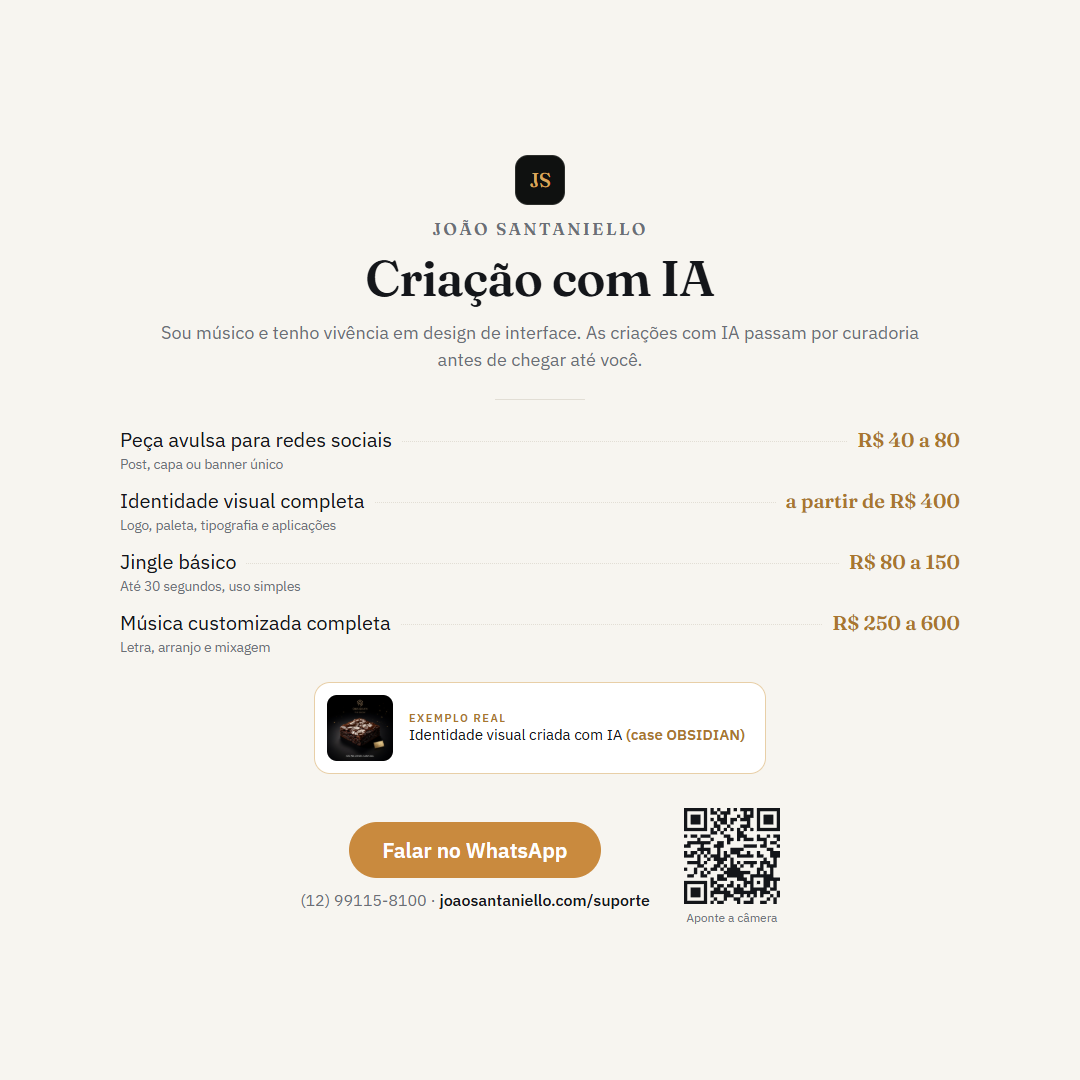
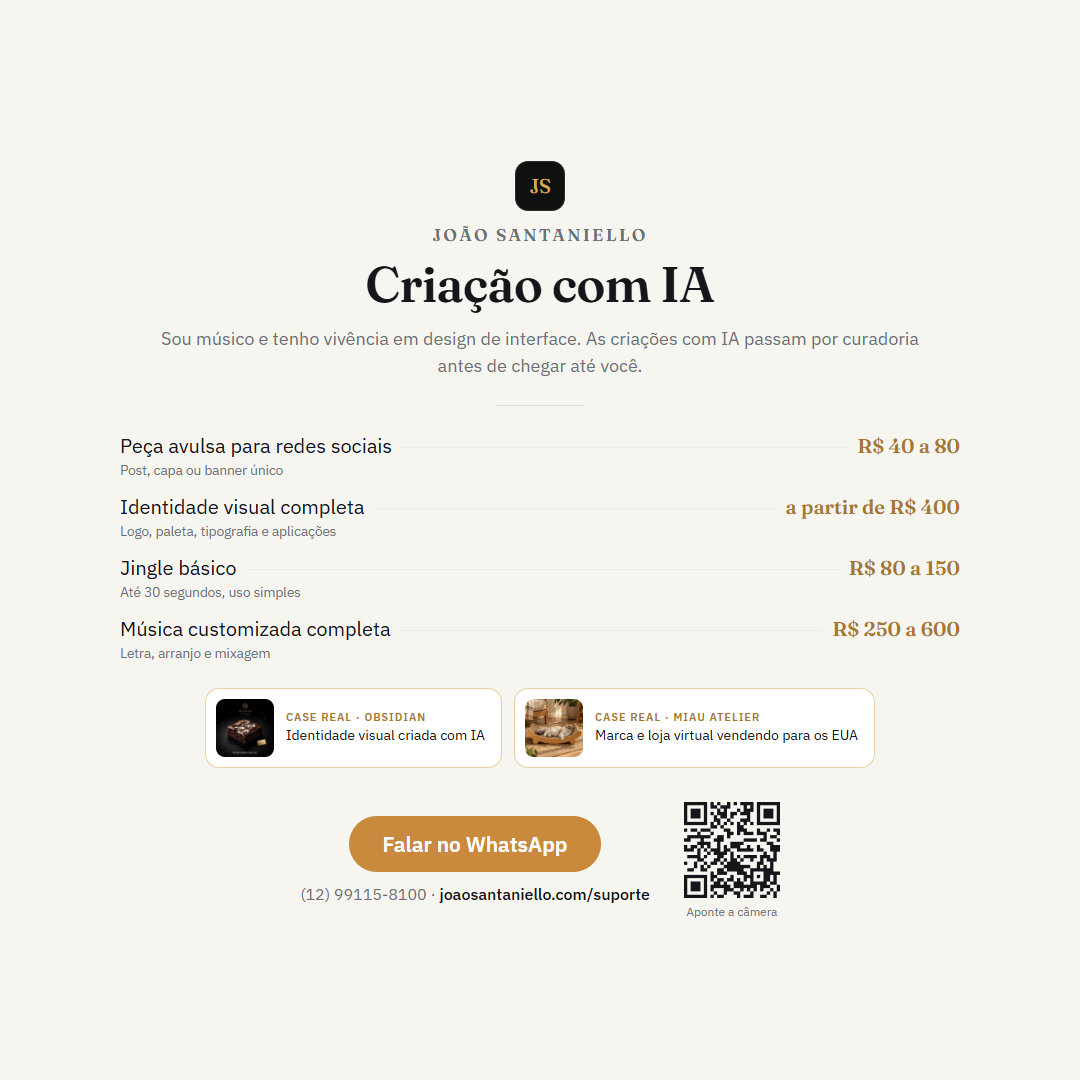
feat(flyers): show the Miau Atelier case next to OBSIDIAN

diff --git a/scripts/flyers/build.py b/scripts/flyers/build.py
@@ -14,6 +14,7 @@ from __future__ import annotations
 
 import html
 import io
+import time
 from pathlib import Path
 
 import segno
@@ -23,6 +24,7 @@ from playwright.sync_api import sync_playwright
 ROOT = Path(__file__).resolve().parents[2]
 OUT = ROOT / "public" / "assets" / "flyers"
 OBSIDIAN = ROOT / "public" / "assets" / "obsidian-branding.jpg"
+MIAU = ROOT / "public" / "assets" / "miau-atelier" / "editorial-hero-living-room-scratcher.webp"
 CHROME = r"C:\Program Files\Google\Chrome\Application\chrome.exe"
 
 NAME = "João Santaniello"
@@ -154,10 +156,16 @@ def groups(gs) -> str:
 
 
 def example(dark: bool) -> str:
-    return (
-        f'<div class="example{" dark" if dark else ""}"><img src="{OBSIDIAN.as_uri()}" alt="">'
-        f'<div><div class="exk">Exemplo real</div><div>Identidade visual criada com IA <b>(case OBSIDIAN)</b></div></div></div>'
+    """Two real cases side by side: OBSIDIAN (identity) and Miau Atelier (brand and store)."""
+    cases = [
+        (OBSIDIAN, "OBSIDIAN", "Identidade visual criada com IA"),
+        (MIAU, "Miau Atelier", "Marca e loja virtual vendendo para os EUA"),
+    ]
+    cards = "".join(
+        f'<div class="excard"><img src="{img.as_uri()}" alt=""><div><div class="exk">Case real · {e(name)}</div><div>{e(text)}</div></div></div>'
+        for img, name, text in cases
     )
+    return f'<div class="example{" dark" if dark else ""}">{cards}</div>'
 
 
 def cta(url: str, dark: bool, big: bool = False) -> str:
@@ -201,11 +209,11 @@ body { width:var(--w); height:var(--h); background:var(--paper); color:var(--ink
 .gtitle { font-size:14px; font-weight:600; letter-spacing:0.16em; text-transform:uppercase; color:var(--golddeep); margin-bottom:10px; }
 .chips { display:flex; flex-wrap:wrap; justify-content:center; gap:10px; margin-top:24px; }
 .chips span { border:1px solid var(--line); border-radius:999px; padding:6px 14px; font-size:14px; color:var(--ink2); }
-.example { display:flex; align-items:center; gap:16px; margin:26px auto 0; padding:12px 20px 12px 12px; border:1.5px solid #e8cfa7; border-radius:16px; background:#fff; font-size:15px; width:max-content; }
-.example.dark { background:#1a1c1b; border-color:#3a3228; }
-.example img { width:66px; height:66px; object-fit:cover; border-radius:10px; }
-.example b { color:var(--golddeep); }
-.exk { font-size:11px; font-weight:600; letter-spacing:0.14em; text-transform:uppercase; color:var(--golddeep); }
+.example { display:flex; justify-content:center; gap:12px; margin:26px auto 0; }
+.excard { display:flex; align-items:center; gap:12px; padding:10px 16px 10px 10px; border:1.5px solid #e8cfa7; border-radius:14px; background:#fff; font-size:14px; line-height:1.3; max-width:380px; }
+.example.dark .excard { background:#1a1c1b; border-color:#3a3228; }
+.excard img { width:58px; height:58px; object-fit:cover; border-radius:9px; flex-shrink:0; }
+.exk { font-size:10.5px; font-weight:600; letter-spacing:0.12em; text-transform:uppercase; color:var(--golddeep); margin-bottom:2px; }
 .cta { display:flex; align-items:center; justify-content:center; gap:34px; margin-top:34px; }
 .ctaleft { display:flex; flex-direction:column; align-items:center; gap:12px; }
 .btn { background:var(--gold); color:#fff; font-weight:600; font-size:21px; padding:14px 34px; border-radius:999px; }
@@ -348,6 +356,18 @@ FLYERS = {
 COMBO = ("joao-santaniello-flyer-combo-4-secoes", ["joao-santaniello-flyer-2-suporte-tecnico", "joao-santaniello-flyer-3-desenvolvimento", "joao-santaniello-flyer-4-criacao-ia", "joao-santaniello-flyer-1b-visao-geral-sem-instrumentos"])
 
 
+def save_png(path: Path, data: bytes) -> None:
+    # Windows sometimes holds a just-written PNG (indexer, antivirus); retry briefly.
+    for attempt in range(10):
+        try:
+            path.write_bytes(data)
+            return
+        except OSError:
+            if attempt == 9:
+                raise
+            time.sleep(0.5)
+
+
 def main() -> None:
     OUT.mkdir(parents=True, exist_ok=True)
     tmp = OUT / "_html"
@@ -364,7 +384,7 @@ def main() -> None:
             pg.goto(src.as_uri(), wait_until="networkidle")
             pg.evaluate("document.fonts.ready")
             overflow = pg.evaluate("document.querySelector('.page').scrollHeight > innerHeight + 1")
-            pg.screenshot(path=str(OUT / f"{name}.png"))
+            save_png(OUT / f"{name}.png", pg.screenshot())
             pg.close()
             print(f"{name}.png {w}x{h}{'  OVERFLOW' if overflow else ''}")
         browser.close()
